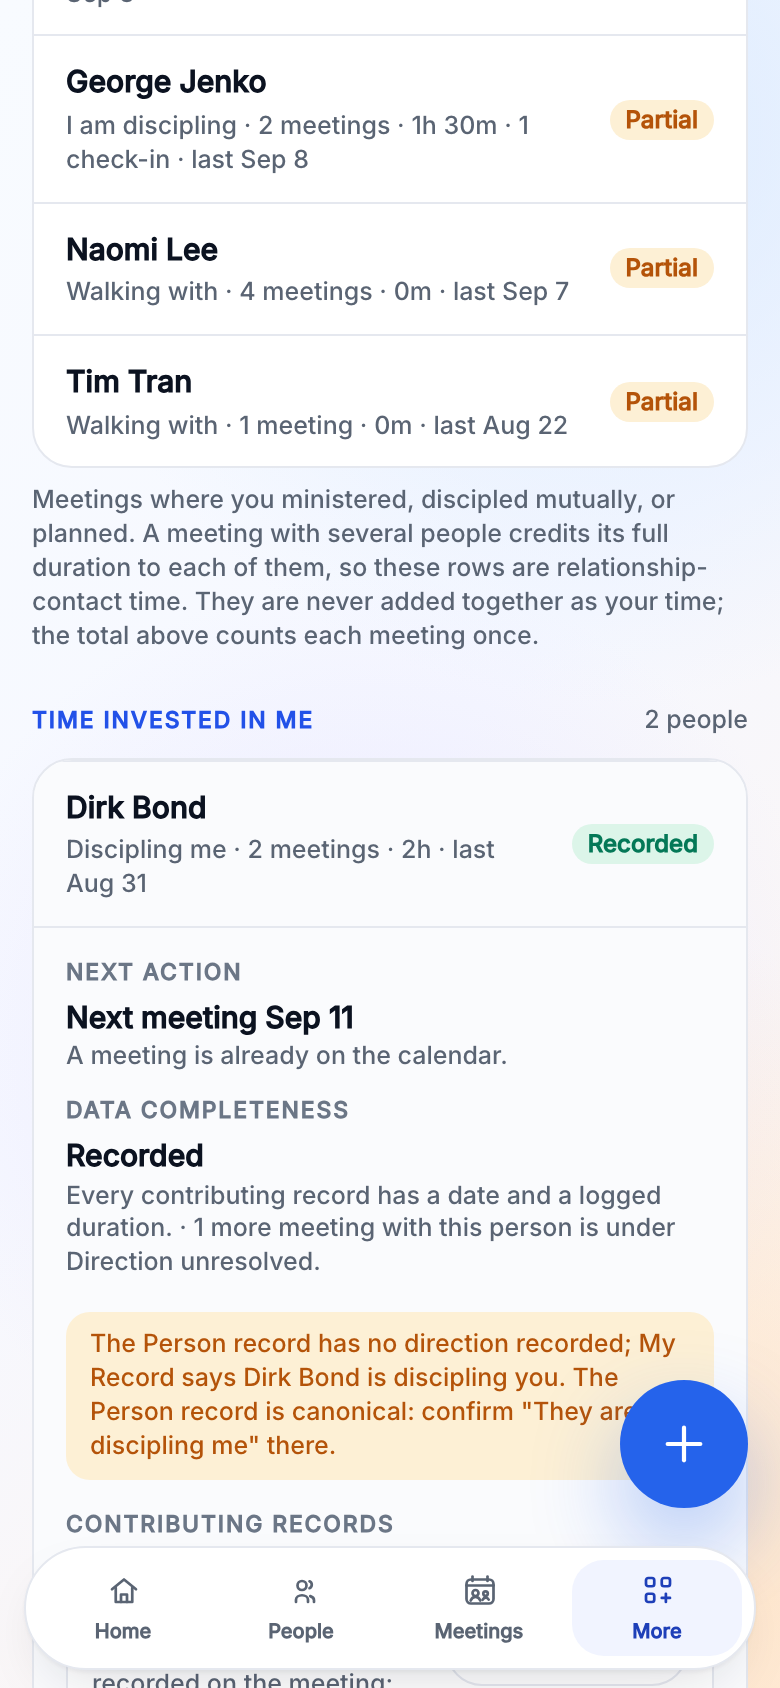
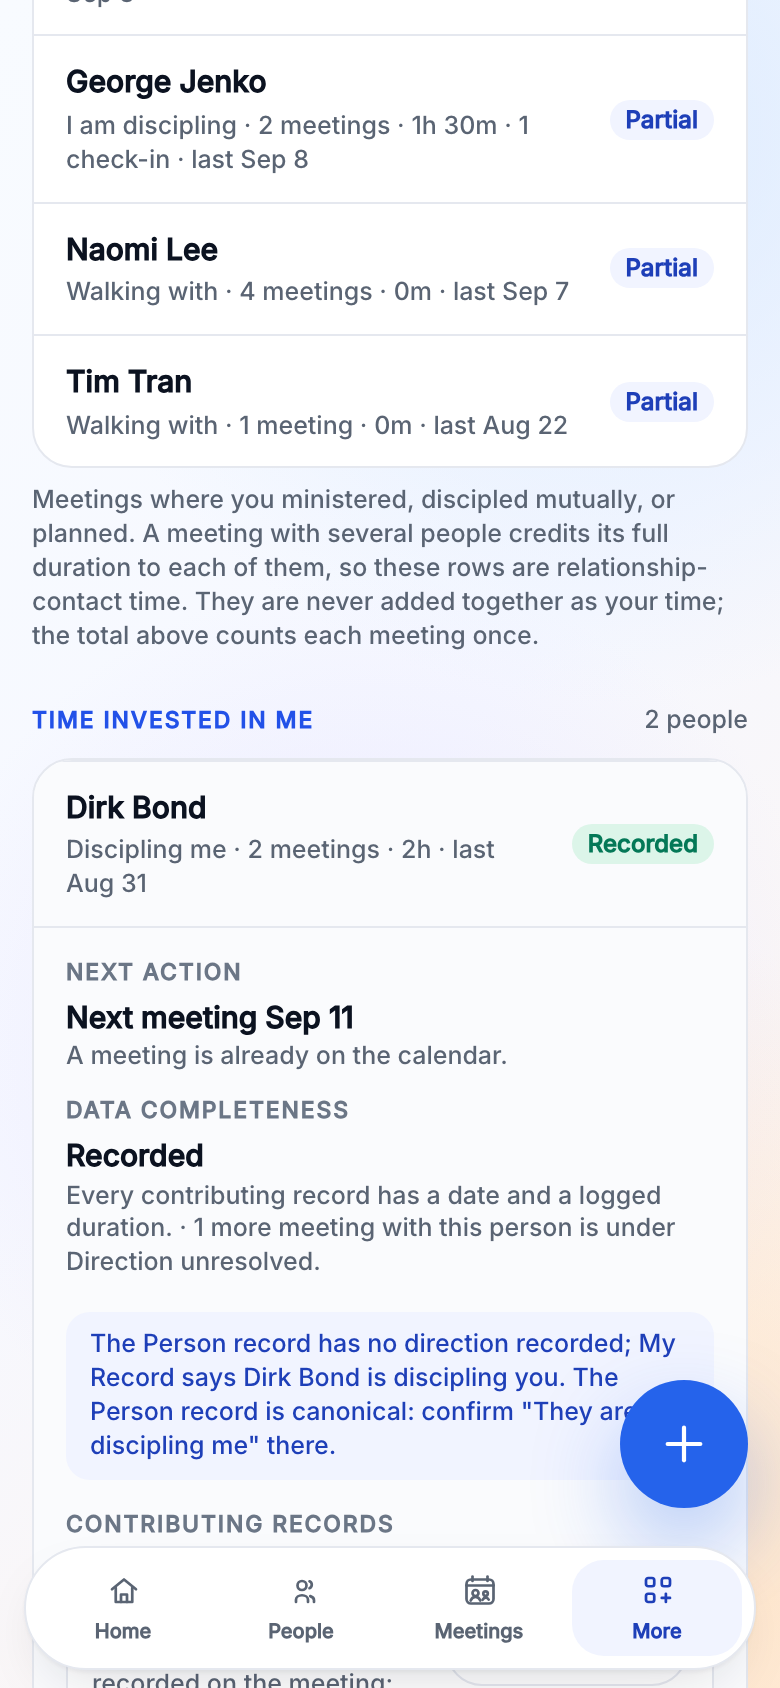
USA-251 / USA-257: no yellow, amber, orange, or red in Reports or Home — blue for partial, unresolved, and conflict notices; green only for Recorded
Founder colour language (2026-09-09, third review). Audited the whole
USA-251 / USA-257 diff: the only warning colours introduced were in the
report component. Partial and Unresolved pills move from the amber
StatusPill tone to blue; the conflict / unconfirmed-direction notice moves
from dos-amberBg / dos-amber to dos-blue50 / dos-blueText; Recorded stays
the only green; No qualifying activity stays grey. Home, the compact
Accountability card, and the Reports view carried no warning colours.

Two guards now fail on any yellow, amber, orange, or red class or hex in
the report component, Home, the Accountability card, the Reports view, or
the Fruit / Reviews panels, and pin Partial and Unresolved to blue.

Classification, completeness, and next-action logic are unchanged.
Screenshots retaken.

diff --git a/src/components/dos/reports/MinistryTimeInvestmentReport.tsx b/src/components/dos/reports/MinistryTimeInvestmentReport.tsx
@@ -26,11 +26,15 @@ import {
  * place to enter ministry.
  */
 
+/* Founder colour language (2026-09-09): green only for genuinely confirmed
+   status; blue for neutral information, partial or incomplete data,
+   unresolved direction, and attention; white / grey for ordinary surfaces.
+   No yellow, amber, orange, or red anywhere in Reports or Home. */
 const completenessTone: Record<DosMinistryCompleteness, StatusTone> = {
   recorded: "green",
-  partial: "amber",
+  partial: "blue",
   none: "grey",
-  unresolved: "amber",
+  unresolved: "blue",
 };
 
 /* The shared StatusPill is 100px wide by design (spec §3), so the pill
@@ -124,7 +128,7 @@ function RowDetail({
       </div>
 
       {row.directionConflict ? (
-        <p className="rounded-dos-1 bg-dos-amberBg px-3 py-2 text-dos-meta text-dos-amber">{row.directionConflict}</p>
+        <p className="rounded-dos-1 bg-dos-blue50 px-3 py-2 text-dos-meta text-dos-blueText">{row.directionConflict}</p>
       ) : null}
 
       <DownstreamLine row={row} />

diff --git a/docs/dos-ui-refresh/phase-3/decision-log.md b/docs/dos-ui-refresh/phase-3/decision-log.md
@@ -101,5 +101,6 @@ PL-1 … PL-10 remain open product-logic questions; production behavior stands f
 | R-6 | Ryan (2026-09-09): "Recorded time" becomes **Logged duration** wherever the number is an entered duration; historical start times are synthetic and imply no clock-in precision. | report, Home, registry |
 | R-7 | Ryan (2026-09-09): Learning's non-functional "future sharing" checkbox and its promise are removed; book notes are private until a real explicit-sharing feature exists. The stored flag is carried through untouched. | My Record Learning form |
 | R-8 | Ryan (2026-09-09): the fixture keeps "Philip John Saco"; the production record's name is not touched. USA-258 stays separate; Reports must not trust a stale assignment status when canonical Journey progress exists. | fixture, registry §3 |
+| R-10 | Ryan (2026-09-09, third review): no yellow, amber, orange, or red in Reports or Home. Blue = neutral, partial, unresolved, attention, next action; green = confirmed only; white / grey = ordinary surfaces. Guarded by the report and Home regression scripts. | report component, `scripts/dos-ministry-report-regression.mjs`, `scripts/dos-home-v1-regression.mjs` |
 | R-9 | Ryan (2026-09-09, second review): a meeting's direction is classified by a recorded meeting role, else by the confirmed structured Person direction of everyone present, else it is **Direction unresolved** (missing, unconfirmed-by-My-Record-only, conflicting, or mixed directions). Nothing is defaulted to Time I invested; notes are never read; no migration. My Record discipleship meetings are a separate record type that can overlap logged meetings and are not combined until a stored link exists. | registry §6, `dosMinistryClassifyMeeting`, `scripts/dos-ministry-report-regression.mjs` |
 | L-1 | Visible product language is discipleship language (USA-260): "Discipling me", "I am discipling", "Being discipled by …", "People Discipling Me", "Discipleship meeting". Legacy enum values, API keys, columns, and stored labels ("Mentor") are unchanged and rendered through the new words. | PR #129 (reconciled) |

diff --git a/docs/dos-ui-refresh/usa-251/first-report.md b/docs/dos-ui-refresh/usa-251/first-report.md
@@ -51,6 +51,10 @@ Removed from Home: Today's Alignment (My Record stays its own destination), Rece
 
 USA-257 officially supersedes spec rule B1 ("Home unchanged") for the approved Home sections (Ryan, 2026-09-09); decision log §F. On the same review Learning's non-functional "future sharing" checkbox and its promise were removed; book notes are private until a real explicit-sharing feature exists.
 
+## Colour language (founder, 2026-09-09)
+
+No yellow, amber, orange, or red anywhere in Reports or on Home. Blue (`dos-blue50` / `dos-blueText` and the blue StatusPill tone) means neutral information, partial or incomplete data, unresolved direction, attention, and next actions. Green (the green StatusPill tone) means only genuinely confirmed status: a Recorded row. White and grey are ordinary surfaces and secondary information; No qualifying activity is the grey pill. Conflict notes (Sam's Person / My Record disagreement, Dirk's unconfirmed direction) are calm blue notices. Home's Accountability counts are dark text on the ordinary surface. Guarded by `scripts/dos-ministry-report-regression.mjs` and `scripts/dos-home-v1-regression.mjs`, which fail on any warning-colour class or hex in these surfaces.
+
 ## Screenshots
 
 `screenshots/` — `mobile-390-*` at 390×844 @2x and `desktop-1440-*` at 1440×900: `home`, `report-30-days` (all three lists: Time I invested, Time invested in me, Direction unresolved), `report-philip-expanded` (Partial row with drill-through), `report-dirk-expanded` (Time invested in me, with the Person-canonical conflict note and the pointer to his unresolved legacy meeting), `report-unresolved-austin-expanded` (no direction), `report-unresolved-sam-expanded` (conflicting Person / My Record direction), `report-7-days`, `report-custom`.
